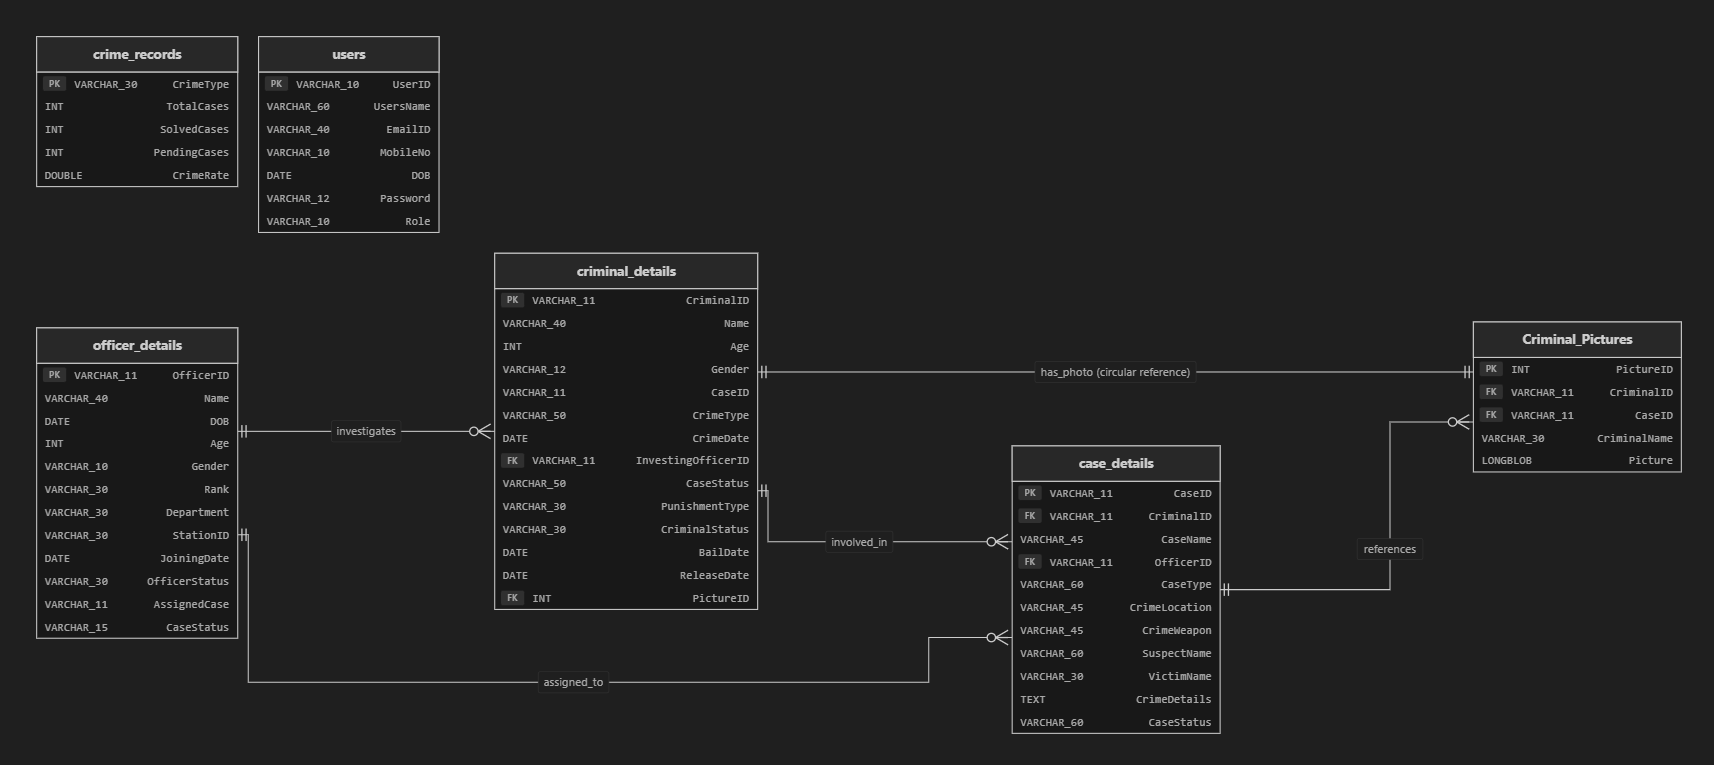
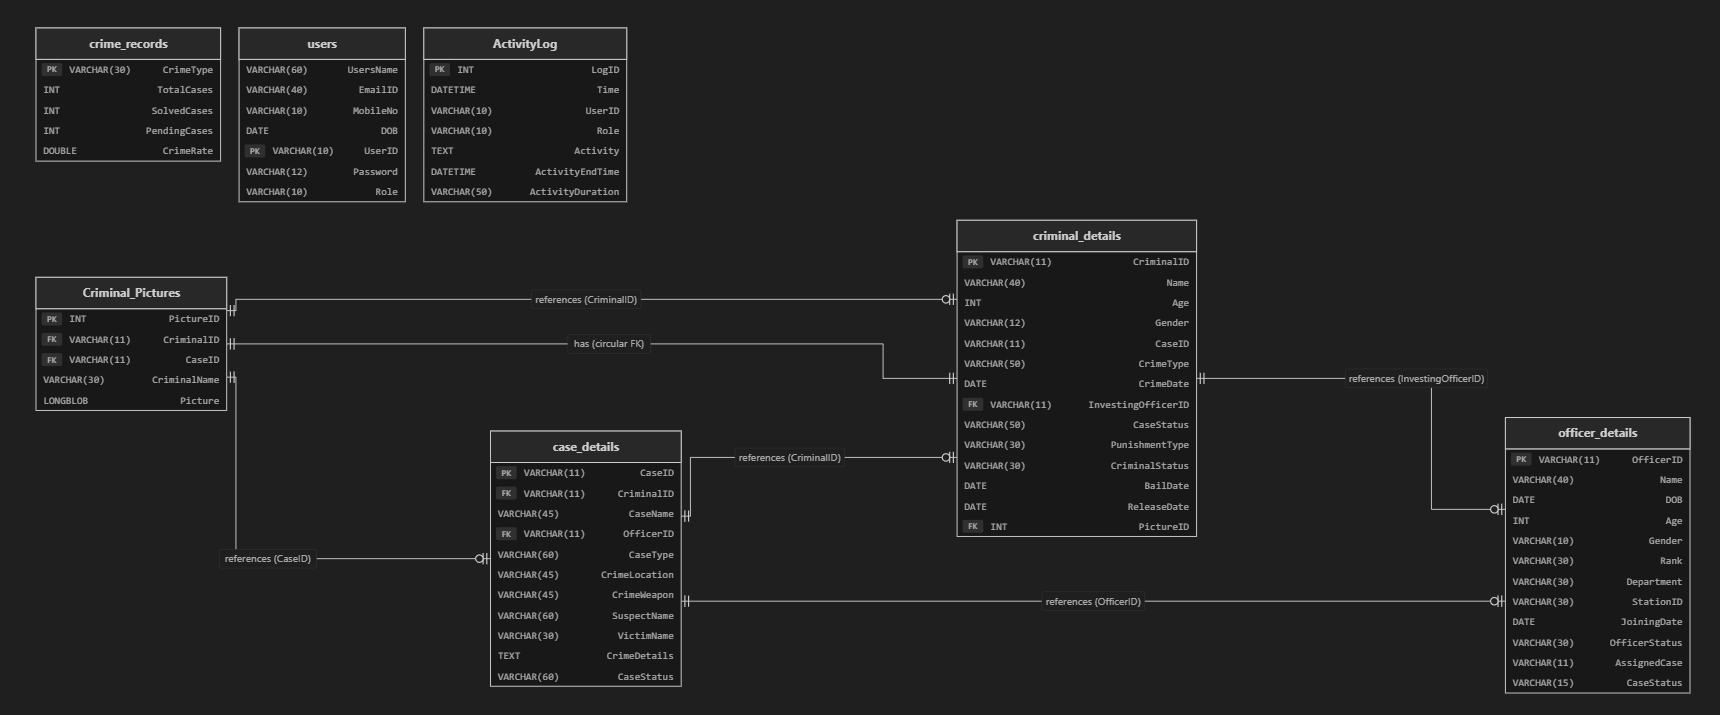
Upgraded database configuration to crms, integrated 2FA captcha/otp login flows, added SQL routines, and updated README and schema diagram

diff --git a/src/Profile/Login_SignUpPage.java b/src/Profile/Login_SignUpPage.java
@@ -368,6 +368,39 @@ public class Login_SignUpPage
     {
         if(LSQ.LoginQuery(UID1,passwd1))
         {
+            // Two-Step Authentication
+            if (isCitizen)
+            {
+                System.out.println("[2FA] Initiating Two-Step Authentication (CAPTCHA)...");
+                if (!APIs.Captcha.verifyCaptcha())
+                {
+                    System.err.println("[FAILED] Two-step verification (CAPTCHA) failed. Login cancelled.");
+                    Login_SignUpPage.setLoggedUserID("");
+                    Login_SignUpPage.setLoggedUserRole("");
+                    return false;
+                }
+            }
+            else
+            {
+                String loggedRole = Login_SignUpPage.getLoggedUserRole();
+                if (loggedRole == null || !(loggedRole.equalsIgnoreCase("Admin") || loggedRole.equalsIgnoreCase("Officer")))
+                {
+                    System.err.println("[ACCESS DENIED] Non-officer/Admin account cannot access the officer area.");
+                    Login_SignUpPage.setLoggedUserID("");
+                    Login_SignUpPage.setLoggedUserRole("");
+                    return false;
+                }
+
+                System.out.println("[2FA] Initiating Two-Step Authentication (OTP)...");
+                if (!APIs.OTP.sendAndVerifyOTP())
+                {
+                    System.err.println("[FAILED] Two-step verification (OTP) failed. Login cancelled.");
+                    Login_SignUpPage.setLoggedUserID("");
+                    Login_SignUpPage.setLoggedUserRole("");
+                    return false;
+                }
+            }
+
             System.out.println("------| USER SUCCESSFULLY LOGGED ON |------");
             return true;
         }

diff --git a/src/Layout/Dashboard.java b/src/Layout/Dashboard.java
@@ -87,7 +87,7 @@ public class Dashboard
                         System.out.println("|                DIRECTORY POLICE OFFICER LOGIN PAGE                   |");
                         System.out.println("+----------------------------------------------------------------------+");
 
-                        if(LS.userLogin())
+                        if(LS.DGPLogin())
                         {
                             dgp.DirectoryOfPoliceOfficer();
                         }

diff --git a/src/DataBase/Database.java b/src/DataBase/Database.java
@@ -20,7 +20,7 @@ import java.util.Scanner;
 
 public class Database extends Thread
 {
-    private static final String URL = "jdbc:mysql://localhost:3306/v102";
+    private static final String URL = "jdbc:mysql://localhost:3306/crms";
     private static final String USER = "root";
     private static final String PASSWORD = "";
 

diff --git a/README.md b/README.md
@@ -12,7 +12,7 @@
   POLICE RECORD & COMPLAINT PORTAL
 ```
 
-> 🚨 **A robust, high-performance Crime Record Management System (CRMS) built in Java. Engineered with role-based security, JDBC connection resilience (online/offline fail-safe mode), and real-time analytics. Powered by custom low-level Data Structures (Priority Queues, DLLs, Graphs, BSTs) & background daemon threads for extreme execution speed! 💻⚡**
+> 🚨 **A robust, high-performance Crime Record Management System (CRMS) built in Java. Engineered with role-based security, JDBC connection resilience (online/offline fail-safe mode), and real-time analytics. Powered by custom low-level Data Structures (Priority Queues, DLLs, BSTs) & background daemon threads for extreme execution speed! 💻⚡**
 
 Welcome to the **Crime Record Management System (CRMS)**—a highly structured, modular Java CLI application designed to bridge the gap between citizens and law enforcement. CRMS empowers citizens to file complaints while giving officers a centralized, secure terminal to track investigations, manage criminal dossiers, roster personnel, and generate official documents.
 
@@ -51,8 +51,10 @@ Welcome to the **Crime Record Management System (CRMS)**—a highly structured, 
 ### 🔒 Two-Step Security & Role-Based Access Control (RBAC)
 * **Citizen Portal**: Open registration for the public to file First Information Reports (FIR) and look up case progress.
 * **Officer & DGP Dashboard**: Strict role-based verification up to the Director General of Police (DGP) level to access police rosters, add criminal records, assign cases, or modify system databases.
+* **Two-Step Authentication**:
+  * **Citizen Login**: Prompts and verifies a dynamic 30-second expiring CAPTCHA challenge before granting access.
+  * **Officer/DGP Login**: Authenticates credentials, restricts access to accounts with `Admin` or `Officer` roles, and verifies a simulated One-Time Password (OTP) challenge.
 * **Time-Bound CAPTCHA Challenge**: Protects administrative endpoints with a dynamic, multi-threaded alphanumeric CAPTCHA that automatically expires after 30 seconds.
-* **OTP Simulation**: Multi-factor authentication simulation using one-time passwords (OTP) to verify login credentials.
 
 ### 📝 Smart FIR Report Generator
 When an FIR is filed, the system extracts the victim, suspect, crime details, and the logged-in officer’s metadata, generating a structured, ready-to-print official document:
@@ -63,28 +65,41 @@ An automated analytics suite that tracks total cases vs. solved vs. pending, and
 
 ---
 
-## 🧠 Computer Science & Custom DSA Implementation
+## 💻 Java Concepts Utilized in CRMS
 
-To optimize performance and minimize database query overhead, CRMS integrates custom low-level **Data Structures & Algorithms (DSA)** alongside **Multi-threaded Background Daemons**:
+This codebase demonstrates key core and advanced Java software engineering principles:
 
-### 1. Custom DSA Core
+1. **Object-Oriented Programming (OOP)**:
+   * **Inheritance**: Used for extending class functionalities (e.g., `DGP extends DGPQueries` for database-backed controller logic, and custom exceptions like `AuthorizationException extends Exception`).
+   * **Encapsulation**: Session tracking variables (`LoggedUserID`, `LoggedUserRole`) are kept private and accessed only through strict getters and setters.
+2. **Multi-threading & Asynchronous Tasks**:
+   * **Daemon Heartbeat Thread**: The DB connection sync process runs as a daemon thread in the background (`DB.setDaemon(true)`), checking database availability every 10 seconds.
+   * **Non-Blocking Timer Threads**: Alphanumeric CAPTCHAs and OTP codes spawn isolated background threads (`InputReader`) to implement a 30-second expiry timeout without blocking the console indefinitely.
+3. **JDBC API & Transaction Security**:
+   * Used for relational database connectivity with MySQL using `PreparedStatement` (preventing SQL injection), transaction safety, and dynamic creation of circular foreign keys.
+4. **Custom Exception Handling**:
+   * Designed custom checked exceptions (such as `DBConnectionException` and `AuthorizationException`) to manage connection fallbacks and role authorization violations cleanly.
+5. **File I/O Streams**:
+   * Implemented persistent local logging and report generation using file writers to export physical case files and system configurations when operating in offline fallback mode.
+
+---
+
+## 🧠 Custom DSA Implementation
+
+To optimize performance and minimize database query overhead, CRMS integrates custom low-level **Data Structures & Algorithms (DSA)** alongside database storage:
+
 * **Custom Doubly Linked List (DLL)** (`CustomDoublyLinkList.java`): Used for navigating through criminal histories sequentially (Next/Previous offense) with \(O(1)\) node insertion and deletion.
 * **Custom Priority Queue** (`CustomPriorityQueue.java`): Prioritizes pending cases by crime severity, automatically routing critical investigations to the top of the roster.
 * **Custom Binary Search Tree (BST)** (`CustomBinarySearchTree.java`): Speeds up case searches by indexing case details by their primary keys, allowing \(O(\log n)\) lookup time.
-* **Custom Graph** (`CustomGraph.java`): Models relationships and connections between different suspects, criminals, and crime events.
 * **Custom Stack** (`CustomStack.java`): Implements a history stack so officers can navigate the multi-tier menu system or undo/redo edits to case logs.
 * **Custom Queue** (`CustomQueue.java`): Implements a FIFO (First-In, First-Out) pipeline to process citizen complaint registrations in the order they are received.
-
-### 2. Multi-threaded Background Workers
-* **JDBC Sync Daemon** (`Database.java`): Runs as a background daemon thread, polling database connection status every minute to switch modes dynamically without interrupting active CLI menus.
-* **Timed CAPTCHA Thread** (`APIs/Captcha.java`): Controls timed input reading to auto-expire alphanumeric security challenges after 30 seconds.
 
 ---
 
 ## 📂 Project Directory Structure
 
 ```text
-v103/
+CRMSv103/
 ├── .idea/                 # IntelliJ IDEA configuration files
 ├── src/                   # Source directory for the Java application
 │   ├── APIs/              # Security and Helper APIs (Captcha, OTP, TimeStamp, custom exceptions)
@@ -98,12 +113,12 @@ v103/
 │   │   ├── Database.java
 │   │   ├── DataFound.java
 │   │   ├── InsertData.java
+│   │   ├── routines.sql       # Database SQL routines (functions and stored procedures)
 │   │   ├── table_relation_schema.png # Database relationship schema diagram
 │   │   └── Validation.java
 │   ├── DataStructure/     # Custom Data Structures & algorithms for in-memory processing
 │   │   ├── CustomBinarySearchTree.java
 │   │   ├── CustomDoublyLinkList.java
-│   │   ├── CustomGraph.java
 │   │   ├── CustomPriorityQueue.java
 │   │   ├── CustomQueue.java
 │   │   ├── CustomStack.java
@@ -132,18 +147,110 @@ v103/
 ├── LICENSE                # Apache 2.0 License Agreement
 ├── NOTICE                 # Attribution and copyright notice
 ├── README.md              # Documentation
-└── v103.iml               # IntelliJ module file
+└── CRMSv103.iml           # IntelliJ module file
 ```
 
 ---
 
-## 🗄 Database Schema & Relational Model
+## 🗄 Relational Database Schema (Mermaid ER Diagram)
 
-Below is the database relationship schema mapping the tables and connections:
+Below is the code-based entity-relationship (ER) diagram mapping all database tables, columns, and relationships:
 
-![Table Relational Schema](src/DataBase/table_relation_schema.png)
+```mermaid
+erDiagram
+    users {
+        VARCHAR(60) UsersName
+        VARCHAR(40) EmailID "Unique"
+        VARCHAR(10) MobileNo
+        DATE DOB
+        VARCHAR(10) UserID PK
+        VARCHAR(12) Password
+        VARCHAR(10) Role
+    }
 
-### 📊 Tables Overview
+    officer_details {
+        VARCHAR(11) OfficerID PK
+        VARCHAR(40) Name
+        DATE DOB
+        INT Age
+        VARCHAR(10) Gender
+        VARCHAR(30) Rank
+        VARCHAR(30) Department
+        VARCHAR(30) StationID
+        DATE JoiningDate
+        VARCHAR(30) OfficerStatus
+        VARCHAR(11) AssignedCase
+        VARCHAR(15) CaseStatus
+    }
+
+    criminal_details {
+        VARCHAR(11) CriminalID PK
+        VARCHAR(40) Name
+        INT Age
+        VARCHAR(12) Gender
+        VARCHAR(11) CaseID
+        VARCHAR(50) CrimeType
+        DATE CrimeDate
+        VARCHAR(11) InvestingOfficerID FK
+        VARCHAR(50) CaseStatus
+        VARCHAR(30) PunishmentType
+        VARCHAR(30) CriminalStatus
+        DATE BailDate
+        DATE ReleaseDate
+        INT PictureID FK
+    }
+
+    case_details {
+        VARCHAR(11) CaseID PK
+        VARCHAR(11) CriminalID FK
+        VARCHAR(45) CaseName
+        VARCHAR(11) OfficerID FK
+        VARCHAR(60) CaseType
+        VARCHAR(45) CrimeLocation
+        VARCHAR(45) CrimeWeapon
+        VARCHAR(60) SuspectName
+        VARCHAR(30) VictimName
+        TEXT CrimeDetails
+        VARCHAR(60) CaseStatus
+    }
+
+    Criminal_Pictures {
+        INT PictureID PK "AUTO_INCREMENT"
+        VARCHAR(11) CriminalID FK
+        VARCHAR(11) CaseID FK
+        VARCHAR(30) CriminalName
+        LONGBLOB Picture
+    }
+
+    crime_records {
+        VARCHAR(30) CrimeType PK
+        INT TotalCases
+        INT SolvedCases
+        INT PendingCases
+        DOUBLE CrimeRate
+    }
+
+    ActivityLog {
+        INT LogID PK "AUTO_INCREMENT"
+        DATETIME Time
+        VARCHAR(10) UserID
+        VARCHAR(10) Role
+        TEXT Activity
+        DATETIME ActivityEndTime
+        VARCHAR(50) ActivityDuration
+    }
+
+    criminal_details ||--|| Criminal_Pictures : "has (circular FK)"
+    Criminal_Pictures ||--o| criminal_details : "references (CriminalID)"
+    Criminal_Pictures ||--o| case_details : "references (CaseID)"
+    case_details ||--o| criminal_details : "references (CriminalID)"
+    case_details ||--o| officer_details : "references (OfficerID)"
+    criminal_details ||--o| officer_details : "references (InvestingOfficerID)"
+```
+
+---
+
+## 📊 Tables Overview
 
 > [!NOTE]  
 > **Database Tables Overview**  
@@ -153,6 +260,17 @@ Below is the database relationship schema mapping the tables and connections:
 > * **`case_details`**: The logbook of all filed FIR reports, detailing crime descriptions, weapon types, locations, victims, and progress status.  
 > * **`Criminal_Pictures`**: Stores physical identification records and binary payloads (`LONGBLOB`) of criminal mugshots.  
 > * **`crime_records`**: Synthesizes real-time crime rate statistics (total, solved, and pending cases) per category.
+> * **`ActivityLog`**: Stores the chronological system events, audits, and user actions for monitoring and session timing.
+
+> [!NOTE]  
+> **`ActivityLog` Schema**  
+> * **`LogID`** (`INT PRIMARY KEY AUTO_INCREMENT`): Unique identifier for each log entry.  
+> * **`Time`** (`DATETIME`): The exact timestamp when the activity started.  
+> * **`UserID`** (`VARCHAR(10)`): The identifier of the user performing the action.  
+> * **`Role`** (`VARCHAR(10)`): The role of the logged user (`Citizen`, `Officer`, `Admin`).  
+> * **`Activity`** (`TEXT`): Description of the action performed (e.g., "Filed FIR report", "Logged out").  
+> * **`ActivityEndTime`** (`DATETIME`): The exact timestamp when the action ended.  
+> * **`ActivityDuration`** (`VARCHAR(50)`): Human-readable duration spent during the user's session action.
 
 ### 🔗 Key Mappings & Constraints
 
@@ -189,6 +307,13 @@ Below is the database relationship schema mapping the tables and connections:
    * **URL**: `jdbc:mysql://localhost:3306/crms`
    * **User**: `root`
    * **Password**: `[Empty]` *(You can change this in `src/DataBase/Database.java` if needed)*
+5. **Import SQL Functions/Routines**:
+   To import the custom database functions (for column details and officer verification):
+   * **Via phpMyAdmin**: Select the `crms` database -> Go to the **Import** tab -> Choose `src/DataBase/routines.sql` -> Click **Import** (or **Go**).
+   * **Via Command Line**: Run the following command:
+     ```bash
+     mysql -u root crms < src/DataBase/routines.sql
+     ```
 
 ### 2. Classpath Configuration
 Ensure that the MySQL Connector/J driver (`mysql-connector-j-9.3.0.jar`) is added to your project dependencies or classpath:
@@ -200,7 +325,7 @@ Ensure that the MySQL Connector/J driver (`mysql-connector-j-9.3.0.jar`) is adde
 ## 🏃 Running the Application
 
 ### Option A: Via Terminal / Command Prompt
-Navigate to the root directory `v103` and execute:
+Navigate to the root directory `CRMSv103` and execute:
 ```bash
 # Compile
 javac -cp "path/to/mysql-connector-j-9.3.0.jar" src/Main.java -d out
@@ -210,7 +335,7 @@ java -cp "out;path/to/mysql-connector-j-9.3.0.jar" CRMS
 ```
 
 ### Option B: Via IntelliJ IDEA
-1. Open the folder `v103` as an IntelliJ project.
+1. Open the folder `CRMSv103` as an IntelliJ project.
 2. Confirm the module SDK is set to Java 8 or above.
 3. Verify that the library dependency path for `mysql-connector-j` is correctly resolved.
 4. Run `Main.java`.
